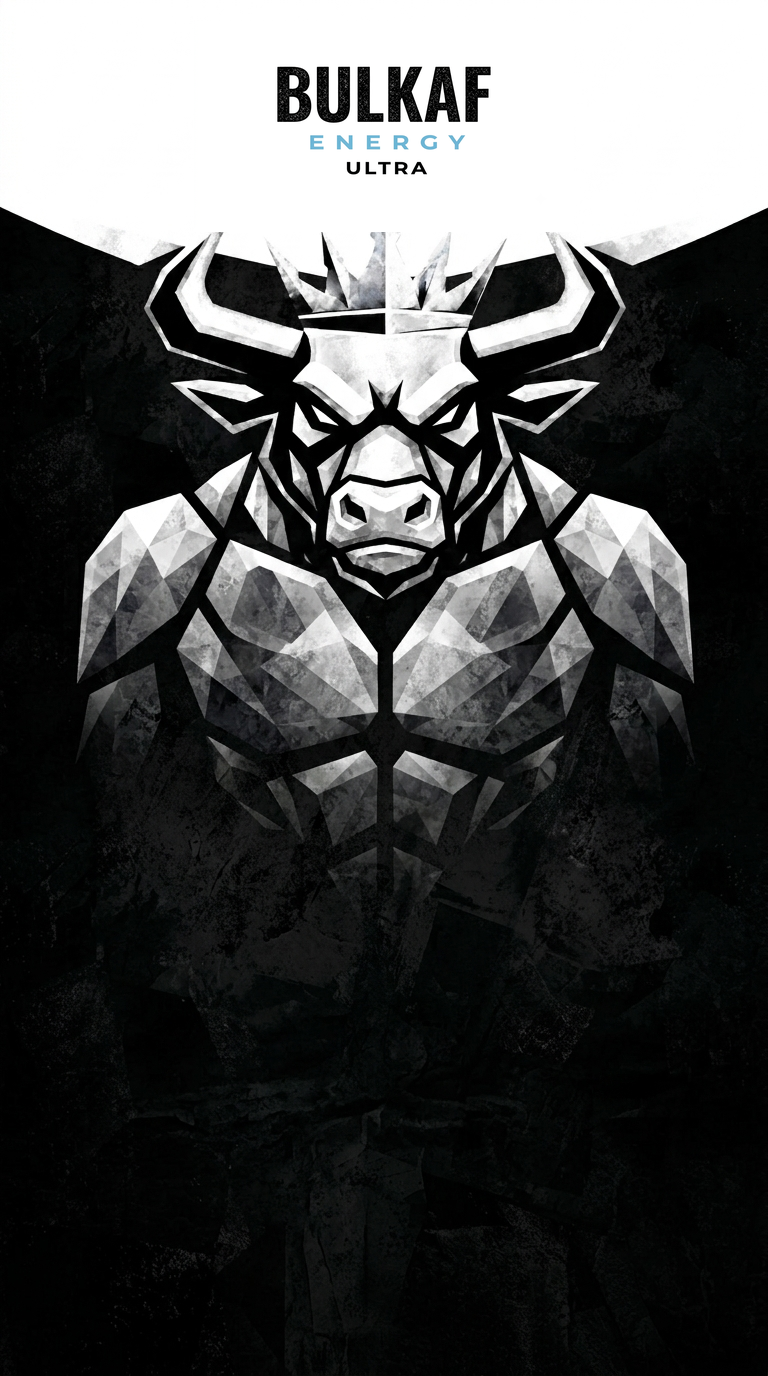
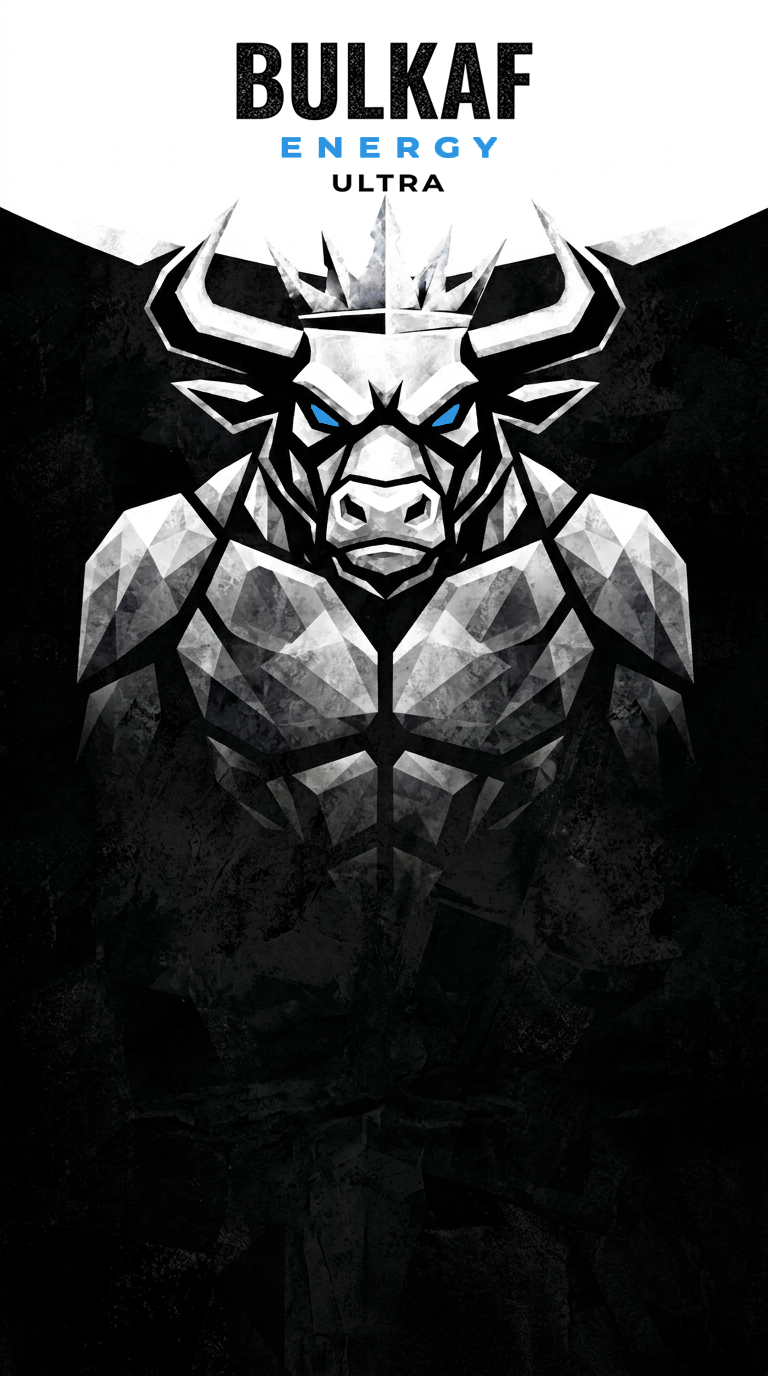
Profil-Formular: festes Grid, Kalorienziel vorausgefüllt, Equipment-Button-Fix

diff --git a/components/ProfileForm.tsx b/components/ProfileForm.tsx
@@ -22,7 +22,13 @@ type Profile = {
   go_to_store: string | null;
 };
 
-export default function ProfileForm({ profile }: { profile: Profile }) {
+export default function ProfileForm({
+  profile,
+  calculatedTarget,
+}: {
+  profile: Profile;
+  calculatedTarget: number;
+}) {
   const router = useRouter();
   const supabase = createClient();
   const [loading, setLoading] = useState(false);
@@ -36,7 +42,7 @@ export default function ProfileForm({ profile }: { profile: Profile }) {
   const [goalWeight, setGoalWeight] = useState(String(profile.goal_weight));
   const [goalDate, setGoalDate] = useState(profile.goal_date);
   const [calorieTarget, setCalorieTarget] = useState(
-    profile.manual_calorie_target != null ? String(profile.manual_calorie_target) : ""
+    String(profile.manual_calorie_target ?? Math.round(calculatedTarget))
   );
   const [pct, setPct] = useState<Record<MealSlot, number>>({
     fruehstueck: profile.pct_fruehstueck * 100,
@@ -90,20 +96,33 @@ export default function ProfileForm({ profile }: { profile: Profile }) {
 
   return (
     <form onSubmit={handleSave} className="space-y-6">
-      <div>
-        <label className="block text-xs text-muted uppercase tracking-wide mb-1.5">Name</label>
-        <input
-          type="text"
-          value={name}
-          onChange={(e) => setName(e.target.value)}
-          placeholder="Dein Name"
-          className="w-full px-3 py-2 rounded-lg text-sm"
-        />
+      <div className="grid grid-cols-2 gap-4">
+        <div>
+          <label className="block text-xs text-muted uppercase tracking-wide mb-1.5 min-h-[2rem] flex items-end">Name</label>
+          <input
+            type="text"
+            value={name}
+            onChange={(e) => setName(e.target.value)}
+            placeholder="Dein Name"
+            className="w-full px-3 py-2 rounded-lg text-sm"
+          />
+        </div>
+        <div>
+          <label className="block text-xs text-muted uppercase tracking-wide mb-1.5 min-h-[2rem] flex items-end">
+            Kalorienziel (kcal)
+          </label>
+          <input
+            type="number"
+            value={calorieTarget}
+            onChange={(e) => setCalorieTarget(e.target.value)}
+            className="w-full px-3 py-2 rounded-lg text-sm"
+          />
+        </div>
       </div>
 
       <div className="grid grid-cols-2 gap-4">
         <div>
-          <label className="block text-xs text-muted uppercase tracking-wide mb-1.5">Anfangsgewicht (kg)</label>
+          <label className="block text-xs text-muted uppercase tracking-wide mb-1.5 min-h-[2rem] flex items-end">Anfangsgewicht (kg)</label>
           <input
             type="number"
             step="0.1"
@@ -113,7 +132,7 @@ export default function ProfileForm({ profile }: { profile: Profile }) {
           />
         </div>
         <div>
-          <label className="block text-xs text-muted uppercase tracking-wide mb-1.5">Zielgewicht (kg)</label>
+          <label className="block text-xs text-muted uppercase tracking-wide mb-1.5 min-h-[2rem] flex items-end">Zielgewicht (kg)</label>
           <input
             type="number"
             step="0.1"
@@ -126,7 +145,7 @@ export default function ProfileForm({ profile }: { profile: Profile }) {
 
       <div className="grid grid-cols-2 gap-4">
         <div>
-          <label className="block text-xs text-muted uppercase tracking-wide mb-1.5">Anfangsdatum</label>
+          <label className="block text-xs text-muted uppercase tracking-wide mb-1.5 min-h-[2rem] flex items-end">Anfangsdatum</label>
           <input
             type="date"
             value={startDate}
@@ -135,7 +154,7 @@ export default function ProfileForm({ profile }: { profile: Profile }) {
           />
         </div>
         <div>
-          <label className="block text-xs text-muted uppercase tracking-wide mb-1.5">Zieldatum</label>
+          <label className="block text-xs text-muted uppercase tracking-wide mb-1.5 min-h-[2rem] flex items-end">Zieldatum</label>
           <input
             type="date"
             value={goalDate}
@@ -145,28 +164,19 @@ export default function ProfileForm({ profile }: { profile: Profile }) {
         </div>
       </div>
 
-      <div>
-        <label className="block text-xs text-muted uppercase tracking-wide mb-1.5">
-          Kalorienziel manuell (leer = automatisch berechnet)
-        </label>
-        <input
-          type="number"
-          value={calorieTarget}
-          onChange={(e) => setCalorieTarget(e.target.value)}
-          placeholder="z.B. 3800"
-          className="w-full px-3 py-2 rounded-lg text-sm"
-        />
-      </div>
+      <p className="text-muted text-[11px] -mt-2">
+        Kalorienziel ist mit dem berechneten Wert ({Math.round(calculatedTarget)} kcal) vorausgefüllt — du kannst es oben jederzeit manuell überschreiben.
+      </p>
 
       <div className="border-t border-line pt-5">
         <div className="text-xs text-muted uppercase tracking-wide mb-3">Küchenausstattung</div>
-        <div className="grid grid-cols-2 gap-2">
+        <div className="grid grid-cols-2 gap-1.5">
           {EQUIPMENT_OPTIONS.map((eq) => (
             <button
               key={eq.key}
               type="button"
               onClick={() => toggleEquipment(eq.key)}
-              className={`flex items-center gap-2 px-3 py-2.5 rounded-md text-sm text-left transition-colors ${
+              className={`flex items-center gap-1.5 px-2.5 py-2.5 rounded-md text-[13px] leading-tight text-left transition-colors ${
                 equipment.has(eq.key) ? "bg-accent text-white" : "bg-white/5 text-text"
               }`}
             >
@@ -177,7 +187,7 @@ export default function ProfileForm({ profile }: { profile: Profile }) {
               >
                 {equipment.has(eq.key) && <span className="w-2 h-2 bg-accent rounded-sm" />}
               </span>
-              {eq.label}
+              <span className="min-w-0 whitespace-pre-line">{eq.label}</span>
             </button>
           ))}
         </div>

diff --git a/app/profile/page.tsx b/app/profile/page.tsx
@@ -2,6 +2,7 @@ import { redirect } from "next/navigation";
 import Link from "next/link";
 import { createClient } from "@/lib/supabase/server";
 import ProfileForm from "@/components/ProfileForm";
+import { calcDailyTarget } from "@/lib/calculations";
 
 export default async function ProfilePage() {
   const supabase = createClient();
@@ -18,6 +19,16 @@ export default async function ProfilePage() {
 
   if (!profile) redirect("/setup");
 
+  const { target: calculatedTarget } = calcDailyTarget({
+    weight: profile.weight,
+    goal_weight: profile.goal_weight,
+    goal_date: profile.goal_date,
+    height: profile.height,
+    age: profile.age,
+    gender: profile.gender,
+    activity: profile.activity,
+  });
+
   return (
     <div className="min-h-screen px-6 py-8">
       <div className="max-w-md mx-auto">
@@ -32,6 +43,7 @@ export default async function ProfilePage() {
         <p className="text-muted text-xs uppercase tracking-widest mb-8">Mein Profil</p>
 
         <ProfileForm
+          calculatedTarget={calculatedTarget}
           profile={{
             name: profile.name,
             weight: profile.weight,

diff --git a/app/setup/equipment/page.tsx b/app/setup/equipment/page.tsx
@@ -61,13 +61,13 @@ export default function EquipmentSetupPage() {
             <label className="block text-xs text-muted uppercase tracking-wide mb-2">
               Was hast du in deiner Küche?
             </label>
-            <div className="grid grid-cols-2 gap-2">
+            <div className="grid grid-cols-2 gap-1.5">
               {EQUIPMENT_OPTIONS.map((eq) => (
                 <button
                   key={eq.key}
                   type="button"
                   onClick={() => toggle(eq.key)}
-                  className={`flex items-center gap-2 px-3 py-2.5 rounded-md text-sm text-left transition-colors ${
+                  className={`flex items-center gap-1.5 px-2.5 py-2.5 rounded-md text-[13px] leading-tight text-left transition-colors ${
                     selected.has(eq.key) ? "bg-accent text-white" : "bg-white/5 text-text"
                   }`}
                 >
@@ -78,7 +78,7 @@ export default function EquipmentSetupPage() {
                   >
                     {selected.has(eq.key) && <span className="w-2 h-2 bg-accent rounded-sm" />}
                   </span>
-                  {eq.label}
+                  <span className="min-w-0 whitespace-pre-line">{eq.label}</span>
                 </button>
               ))}
             </div>

diff --git a/app/recipes/page.tsx b/app/recipes/page.tsx
@@ -37,7 +37,7 @@ export default async function RecipesPage() {
 
   return (
     <div className="min-h-screen bg-bg">
-      <div className="max-w-md mx-auto relative w-full overflow-hidden" style={{ aspectRatio: "1915 / 1382" }}>
+      <div className="max-w-md mx-auto relative w-full overflow-hidden" style={{ aspectRatio: "2623 / 1382" }}>
         <img src="/hangry-hero1.png" alt="BulkAF" className="absolute inset-0 w-full h-full object-cover object-top" />
         <div className="absolute inset-x-0 bottom-0 h-20 bg-gradient-to-b from-transparent to-bg" />
         <Link

diff --git a/lib/equipment.ts b/lib/equipment.ts
@@ -4,7 +4,7 @@ export const EQUIPMENT_OPTIONS = [
   { key: "mikrowelle", label: "Mikrowelle" },
   { key: "airfryer", label: "Airfryer" },
   { key: "herd", label: "Herd" },
-  { key: "sandwichmaker", label: "Sandwichmaker" },
+  { key: "sandwichmaker", label: "Sandwich-\nmaker" },
 ] as const;
 
 export const STORE_OPTIONS = ["Lidl", "Aldi", "Rewe", "Kaufland"] as const;